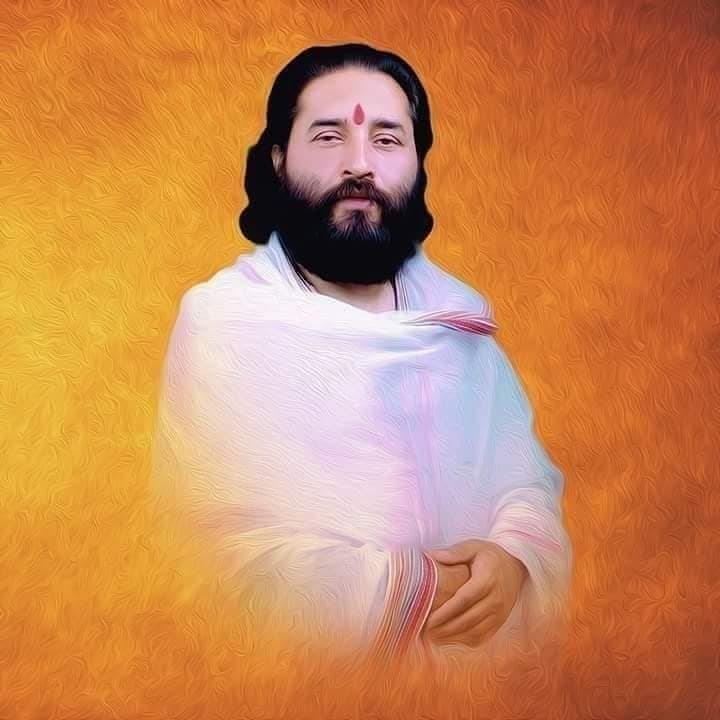
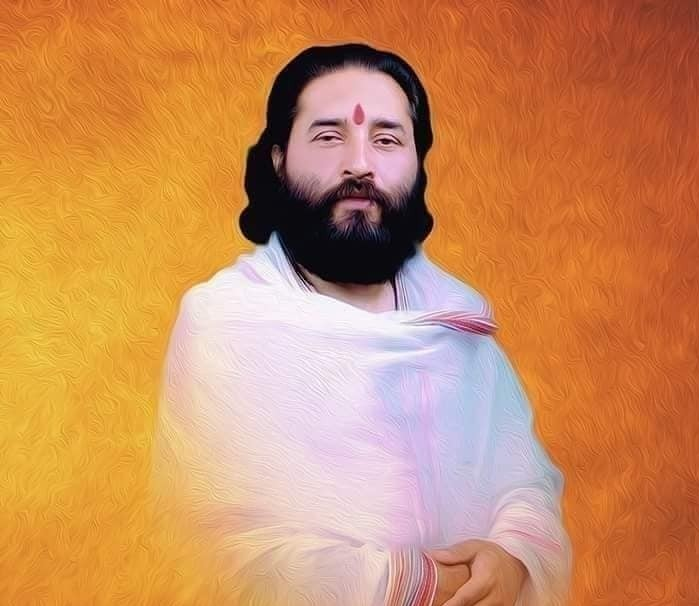
Update image display style and correct location name in studio details

diff --git a/our-studios/index.html b/our-studios/index.html
@@ -263,7 +263,7 @@
             <div class="card-body">
               <div class="d-flex align-items-center mb-2">
                 <i class="fa-solid fa-location-dot mr-2" style="color:var(--royal)"></i>
-                <h5 class="mb-0">Patiala (PUNJAB)</h5>
+                <h5 class="mb-0">Patiala (Punjab)</h5>
               </div>
               <p class="mb-1"><strong>Institute, Patiala</strong></p>
               <p class="text-muted mb-2">Mohindra Kanya Maha Vidyalaya, Nabha Gate, Patiala, Punjab</p>

diff --git a/guest-faculty/index.html b/guest-faculty/index.html
@@ -312,7 +312,7 @@ Institute</title>
     .faculty .photo img {
       width: 100%;
       height: 100%;
-      object-fit: cover;
+      object-fit: contain;
       display: block;
       transform: scale(1.02);
       transition: transform .5s ease;
